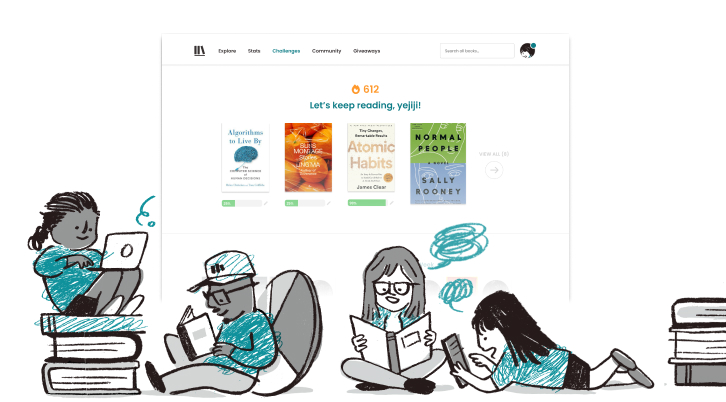
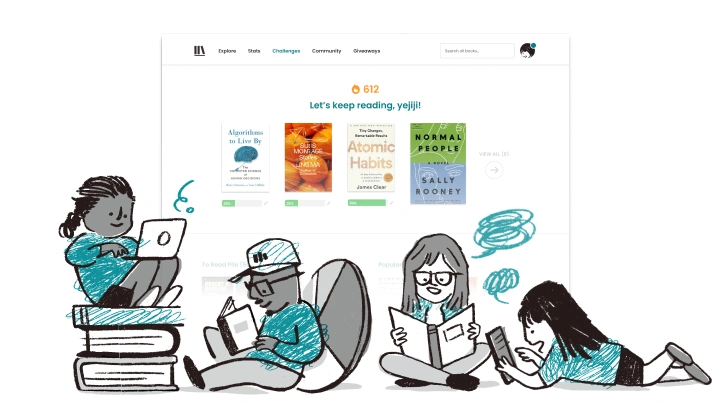
Updated TSG image and style tweaks

diff --git a/src/app/pages/playground/page.js b/src/app/pages/playground/page.js
@@ -96,12 +96,9 @@ export default function Playground() {
           <img src="/images/playground/experiments/ascii.webp" alt="ASCII" />
         </div>
         <div className="box">
-          <img src="/images/playground/experiments/lamp.webp" alt="Lamp" />
-        </div>
-        <div className="box">
           <img
-            src="/images/playground/experiments/domoscene.webp"
-            alt="Domo Scene"
+            src="/images/playground/graphics/fathead4.webp"
+            alt="Fathead 4"
           />
         </div>
         <div className="box">
@@ -117,7 +114,16 @@ export default function Playground() {
           />
         </div>
         <div className="box">
+          <img
+            src="/images/playground/experiments/domoscene.webp"
+            alt="Domo Scene"
+          />
+        </div>
+        <div className="box">
           <img src="/images/playground/experiments/YEJI.webp" alt="YEJI" />
+        </div>
+        <div className="box">
+          <img src="/images/playground/graphics/deck.webp" alt="Deck" />
         </div>
         <div className="box">
           <img
@@ -136,9 +142,6 @@ export default function Playground() {
         </div>
         <div className="box">
           <img src="/images/playground/graphics/activist.webp" alt="Activist" />
-        </div>
-        <div className="box">
-          <img src="/images/playground/graphics/deck.webp" alt="Deck" />
         </div>
         <div className="box">
           <img
@@ -168,10 +171,7 @@ export default function Playground() {
           />
         </div>
         <div className="box">
-          <img
-            src="/images/playground/graphics/fathead4.webp"
-            alt="Fathead 4"
-          />
+          <img src="/images/playground/experiments/lamp.webp" alt="Lamp" />
         </div>
         <div className="box">
           <img

diff --git a/src/app/pages/projects/page.js b/src/app/pages/projects/page.js
@@ -4,7 +4,7 @@ import Project from "@/app/components/Project";
 export default function Projects() {
   return (
     <main className="">
-      <div className="flex flex-wrap mt-16 justify-center items-center text-center gap-8 w-full text-neutral-600">
+      <div className="flex flex-wrap mt-14 justify-center items-center text-center gap-8 w-full text-neutral-600">
         <Project
           title="The StoryGraph"
           type="UI/UX DESIGN"
